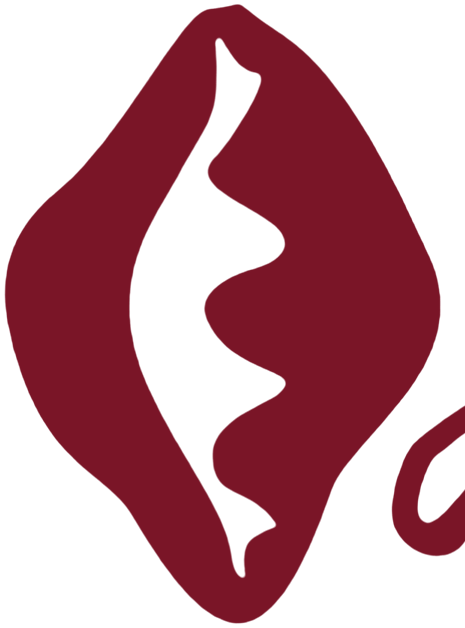
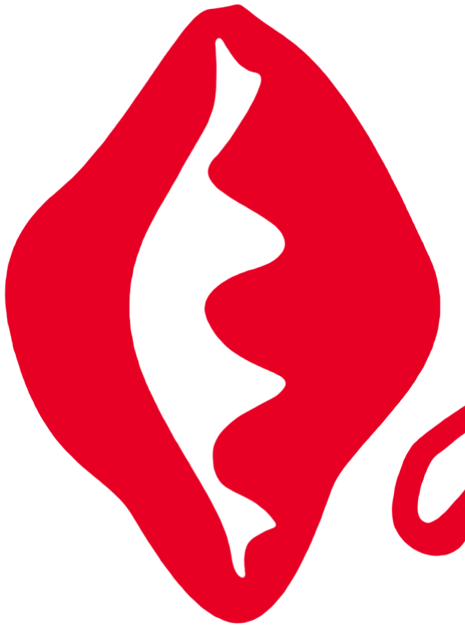
La dame aux perles : rouge vif et blanc pur à la place du bordeaux et du crème
Claude-Session: https://claude.ai/code/session_01TKxGnCmsb49PvZA5i174My

diff --git a/concepts/lyzma/style.css b/concepts/lyzma/style.css
@@ -1,8 +1,8 @@
-/* LA DAME AUX PERLES (Lyzma) — natural hair, by appointment (Edmundston). Her flyer's palette: bordeaux and gold on
-   cream paper (the colours of her logo), cocoa ink; her logo in bordeaux; a grotesque with character for the titles. */
-:root { --bg: #fcf3ea; --ink: #3a1c16; --muted: #7a605a; --line: rgba(58, 28, 22, .16); --soft: #fff8ef; --gold: #e8a21c; --gold-2: #f4c04c; --orange: #7a1628; --brick: #7a1628;
-  --rasp: #7a1628; --rasp-deep: #4e0d19; --blush: #f6e6e2;
-  --accent: #7a1628; --on-accent: #fff8ef; --title: 'Bricolage Grotesque', 'Arial Narrow', sans-serif; --script: 'Caveat', 'Bradley Hand', cursive; --body: 'Manrope', system-ui, sans-serif;
+/* LA DAME AUX PERLES (Lyzma) — natural hair, by appointment (Edmundston). Her flyer's palette: a pop red and bright gold on pure
+   white (she wants bright, happy colours); her logo in red, or in white on the red; a grotesque with character for the titles. */
+:root { --bg: #ffffff; --ink: #141414; --muted: #555555; --line: rgba(20, 20, 20, .14); --soft: #ffffff; --gold: #ffb400; --gold-2: #ffc83d; --orange: #e60023; --brick: #e60023;
+  --rasp: #e60023; --rasp-deep: #c4001d; --blush: #fff0f2;
+  --accent: #e60023; --on-accent: #ffffff; --title: 'Bricolage Grotesque', 'Arial Narrow', sans-serif; --script: 'Caveat', 'Bradley Hand', cursive; --body: 'Manrope', system-ui, sans-serif;
   --pill: 999px; --r: 22px; --max: 1140px; --pad: clamp(18px, 4vw, 44px); }
 
 *, *::before, *::after { box-sizing: border-box; }
@@ -31,7 +31,7 @@ button { font: inherit; }
 .jb-off .btn { margin-top: 6px; }
 
 body { font-size: 15.5px; }
-.concept { background: var(--ink); color: #fff8ef; font-family: var(--body); }
+.concept { background: var(--ink); color: #ffffff; font-family: var(--body); }
 .script { font-family: var(--script); font-weight: 700; font-size: clamp(26px, 3.4vw, 36px); line-height: 1.1; color: var(--rasp); }
 .h1, .h2, .h3 { font-family: var(--title); font-weight: 600; letter-spacing: -.02em; line-height: 1.04; }
 .h1 { font-size: clamp(34px, 5.2vw, 60px); }
@@ -42,7 +42,7 @@ body { font-size: 15.5px; }
 .btn .i { width: 18px; height: 18px; }
 .rings { color: var(--gold); }
 
-.nav { position: sticky; top: 0; z-index: 20; display: flex; align-items: center; justify-content: space-between; gap: 16px; padding: 10px var(--pad); background: rgba(252, 243, 234, .92); -webkit-backdrop-filter: blur(10px); backdrop-filter: blur(10px); border-bottom: 1px solid var(--line); }
+.nav { position: sticky; top: 0; z-index: 20; display: flex; align-items: center; justify-content: space-between; gap: 16px; padding: 10px var(--pad); background: rgba(255, 255, 255, .94); -webkit-backdrop-filter: blur(10px); backdrop-filter: blur(10px); border-bottom: 1px solid var(--line); }
 .logo { display: block; }
 .logo img { display: block; height: 46px; width: auto; }
 .nav__links { display: none; gap: 30px; font-weight: 600; font-size: 14.5px; }
@@ -52,8 +52,9 @@ body { font-size: 15.5px; }
 
 main { overflow-x: clip; }
 .center { text-align: center; }
-.strip { display: flex; justify-content: space-between; gap: 14px; padding: 8px var(--pad); background: var(--rasp); color: #fff8ef; font-family: var(--title); font-weight: 600; font-size: 12px; letter-spacing: .14em; text-transform: uppercase; white-space: nowrap; overflow: hidden; }
-.concept { background: var(--ink); }
+.strip { display: flex; justify-content: space-between; gap: 14px; padding: 8px var(--pad); background: var(--rasp); color: #ffffff; font-family: var(--title); font-weight: 600; font-size: 12px; letter-spacing: .14em; text-transform: uppercase; white-space: nowrap; overflow: hidden; }
+.concept { background: #ffffff; color: var(--ink); border-bottom: 1px solid var(--line); }
+.concept a { color: var(--rasp); }
 
 /* the hero: her logo, in white, alone on a plain bordeaux */
 .hero { padding: 10px 10px 0; display: grid; justify-items: center; text-align: center; }
@@ -78,7 +79,7 @@ main { overflow-x: clip; }
 .spec__img img { width: 100%; height: 100%; object-fit: cover; transition: transform .6s ease; }
 .spec__card:hover .spec__img img { transform: scale(1.04); }
 .spec__pill { margin-top: -19px; position: relative; padding: 8px 18px; border-radius: var(--pill); background: var(--bg); border: 1.5px solid var(--ink); font-family: var(--title); font-weight: 600; font-size: 14px; letter-spacing: .06em; text-transform: uppercase; transition: background-color .2s, color .2s; }
-.spec__card:hover .spec__pill { background: var(--rasp); border-color: var(--rasp); color: #fff8ef; }
+.spec__card:hover .spec__pill { background: var(--rasp); border-color: var(--rasp); color: #ffffff; }
 .spec__sub { margin-top: 8px; font-size: 13px; color: var(--muted); }
 .spec__from { margin-top: 6px; font-family: var(--title); font-weight: 600; font-size: 15px; color: var(--rasp); }
 @media (min-width: 900px) { .spec__grid { grid-template-columns: repeat(4, minmax(0, 1fr)); gap: 16px; } }
@@ -94,7 +95,7 @@ main { overflow-x: clip; }
 .jb-menu__name { font-weight: 700; }
 .jb-menu__price { font-family: var(--title); font-weight: 600; font-size: 18px; }
 .jb-menu__book { border: 1.5px solid var(--ink); font-size: 12.5px; font-weight: 700; transition: background-color .2s, color .2s; }
-.jb-menu__book:hover { background: var(--rasp); border-color: var(--rasp); color: #fff8ef; }
+.jb-menu__book:hover { background: var(--rasp); border-color: var(--rasp); color: #ffffff; }
 
 .duo { display: grid; gap: 34px; }
 .duo__col { display: grid; gap: 16px; align-content: start; }
@@ -111,19 +112,19 @@ main { overflow-x: clip; }
 .pol__item { display: grid; gap: 4px; align-content: start; }
 .pol__item h3 { font-family: var(--title); font-weight: 600; font-size: 14px; letter-spacing: .1em; text-transform: uppercase; }
 .pol__item p { color: var(--muted); font-size: 14.5px; }
-.pol__prep { margin-top: 26px; max-width: 860px; width: 100%; justify-self: center; padding: 14px 18px; border-radius: 14px; background: #fdeccf; font-size: 14px; }
+.pol__prep { margin-top: 26px; max-width: 860px; width: 100%; justify-self: center; padding: 14px 18px; border-radius: 14px; background: #fff4d1; font-size: 14px; }
 @media (min-width: 700px) { .pol__grid { grid-template-columns: 1fr 1fr; } }
 
-.cta__in { position: relative; overflow: hidden; display: grid; gap: 22px; justify-items: center; text-align: center; padding: clamp(46px, 8vw, 96px) 22px; border-radius: clamp(22px, 3vw, 34px); background: var(--rasp); color: #fff8ef; }
+.cta__in { position: relative; overflow: hidden; display: grid; gap: 22px; justify-items: center; text-align: center; padding: clamp(46px, 8vw, 96px) 22px; border-radius: clamp(22px, 3vw, 34px); background: var(--rasp); color: #ffffff; }
 .cta__in::before, .cta__in::after { content: ""; position: absolute; width: clamp(180px, 26vw, 340px); aspect-ratio: 1; border-radius: 50%; background: repeating-radial-gradient(circle, var(--gold) 0 10px, transparent 10px 24px); opacity: .9; }
 .cta__in::before { left: -8%; bottom: -46%; }
 .cta__in::after { right: -8%; top: -46%; }
 .cta__title { position: relative; z-index: 1; font-family: var(--title); font-weight: 600; font-size: clamp(30px, 5.4vw, 66px); line-height: 1; letter-spacing: -.02em; text-transform: uppercase; max-width: 14em; text-wrap: balance; }
 .cta__btn { position: relative; z-index: 1; background: var(--gold); border-color: var(--gold); color: var(--ink); }
-.cta__btn:hover { background: #fff8ef; border-color: #fff8ef; color: var(--ink); }
+.cta__btn:hover { background: #ffffff; border-color: #ffffff; color: var(--ink); }
 
 .page .script { margin-bottom: 4px; }
-.foot { margin-top: clamp(70px, 10vw, 130px); padding: 52px var(--pad) 40px; background: var(--rasp-deep); color: #fff8ef; }
+.foot { margin-top: clamp(70px, 10vw, 130px); padding: 52px var(--pad) 40px; background: var(--rasp-deep); color: #ffffff; }
 .foot__in { max-width: var(--max); margin: 0 auto; display: grid; gap: 22px; justify-items: center; text-align: center; }
 .foot__logo img { height: clamp(90px, 12vw, 124px); }
 .foot__soc { display: flex; flex-wrap: wrap; justify-content: center; align-items: center; gap: 6px 20px; font-weight: 700; font-size: 14px; }
@@ -135,10 +136,10 @@ main { overflow-x: clip; }
 .foot__note a { text-decoration: underline; text-underline-offset: 2px; }
 
 /* the booking steps, in Lyzma's look */
-.jb { --jb-accent: #7a1628; --jb-on-accent: #fff8ef; --jb-soft: #f6e6e2; --jb-line: rgba(58, 28, 22, .2); --jb-muted: #7a605a; --jb-radius: 18px; --jb-title: 'Bricolage Grotesque', 'Arial Narrow', sans-serif; }
+.jb { --jb-accent: #e60023; --jb-on-accent: #ffffff; --jb-soft: #fff0f2; --jb-line: rgba(20, 20, 20, .18); --jb-muted: #555555; --jb-radius: 18px; --jb-title: 'Bricolage Grotesque', 'Arial Narrow', sans-serif; }
 .jb-title { font-weight: 600; letter-spacing: -.02em; }
-.jb-option, .jb-recap, .jb-card { background: #fffdf8; }
-.jb-option.is-on, .jb-acc.is-open { background: #f6e6e2; }
+.jb-option, .jb-recap, .jb-card { background: #ffffff; }
+.jb-option.is-on, .jb-acc.is-open { background: #fff0f2; }
 .jb-option__price, .jb-recap__total dd, .jb-acc__facts dd { font-family: var(--title); }
 .jb-time.is-on, .jb-cal__day.is-on { background: var(--rasp); border-color: var(--rasp); color: #fff; }
 .jb-steps__item.is-current .jb-steps__n, .jb-steps__item.is-done .jb-steps__n { background: var(--gold); border-color: var(--gold); color: var(--ink); }

diff --git a/concepts/lyzma/index.html b/concepts/lyzma/index.html
@@ -7,7 +7,7 @@
 <title>La dame aux perles — locks et coiffures sur cheveux naturels à Edmundston</title>
 <meta name="description" content="La dame aux perles (Lyzma) : resserrage de locks, tresses, mèches et faux locks à Edmundston et environs, à domicile ou sur place. Réservez en ligne.">
 <meta name="robots" content="noindex, nofollow">
-<meta name="theme-color" content="#7a1628">
+<meta name="theme-color" content="#e60023">
 <link rel="icon" href="img/marque.webp" type="image/webp">
 <link rel="preconnect" href="https://fonts.googleapis.com">
 <link rel="preconnect" href="https://fonts.gstatic.com" crossorigin>
@@ -94,7 +94,7 @@
 </main>
 <footer class="foot">
   <div class="foot__in">
-    <a class="logo foot__logo" href="./"><img src="img/logo-creme.webp" alt="La dame au perle" width="1431" height="685" loading="lazy" decoding="async"></a>
+    <a class="logo foot__logo" href="./"><img src="img/logo-blanc.webp" alt="La dame au perle" width="1431" height="685" loading="lazy" decoding="async"></a>
     <p class="foot__soc"><a href="https://www.instagram.com/lyzmaaa/" rel="noopener">Instagram</a><a href="https://www.tiktok.com/@lyzmaaa" rel="noopener">TikTok</a><a href="https://www.snapchat.com/add/lyzmaaa" rel="noopener">Snapchat</a><span>@lyzmaaa</span></p>
     <nav class="foot__nav" aria-label="Pied de page">
       <a href="reserver/">Prendre rendez-vous</a>

diff --git a/concepts/lyzma/reserver/index.html b/concepts/lyzma/reserver/index.html
@@ -7,7 +7,7 @@
 <title>Prendre rendez-vous — Lyzma</title>
 <meta name="description" content="Réservez votre prestation chez Lyzma en quelques étapes.">
 <meta name="robots" content="noindex, nofollow">
-<meta name="theme-color" content="#7a1628">
+<meta name="theme-color" content="#e60023">
 <link rel="icon" href="../img/marque.webp" type="image/webp">
 <link rel="preconnect" href="https://fonts.googleapis.com">
 <link rel="preconnect" href="https://fonts.gstatic.com" crossorigin>
@@ -37,7 +37,7 @@
 </main>
 <footer class="foot">
   <div class="foot__in">
-    <a class="logo foot__logo" href="../"><img src="../img/logo-creme.webp" alt="La dame au perle" width="1431" height="685" loading="lazy" decoding="async"></a>
+    <a class="logo foot__logo" href="../"><img src="../img/logo-blanc.webp" alt="La dame au perle" width="1431" height="685" loading="lazy" decoding="async"></a>
     <p class="foot__soc"><a href="https://www.instagram.com/lyzmaaa/" rel="noopener">Instagram</a><a href="https://www.tiktok.com/@lyzmaaa" rel="noopener">TikTok</a><a href="https://www.snapchat.com/add/lyzmaaa" rel="noopener">Snapchat</a><span>@lyzmaaa</span></p>
     <nav class="foot__nav" aria-label="Pied de page">
       <a href="../reserver/">Prendre rendez-vous</a>

diff --git a/concepts/lyzma/rendez-vous/index.html b/concepts/lyzma/rendez-vous/index.html
@@ -7,7 +7,7 @@
 <title>Mon rendez-vous — Lyzma</title>
 <meta name="description" content="Voir, déplacer ou annuler votre rendez-vous chez Lyzma.">
 <meta name="robots" content="noindex, nofollow">
-<meta name="theme-color" content="#7a1628">
+<meta name="theme-color" content="#e60023">
 <link rel="icon" href="../img/marque.webp" type="image/webp">
 <link rel="preconnect" href="https://fonts.googleapis.com">
 <link rel="preconnect" href="https://fonts.gstatic.com" crossorigin>
@@ -38,7 +38,7 @@
 </main>
 <footer class="foot">
   <div class="foot__in">
-    <a class="logo foot__logo" href="../"><img src="../img/logo-creme.webp" alt="La dame au perle" width="1431" height="685" loading="lazy" decoding="async"></a>
+    <a class="logo foot__logo" href="../"><img src="../img/logo-blanc.webp" alt="La dame au perle" width="1431" height="685" loading="lazy" decoding="async"></a>
     <p class="foot__soc"><a href="https://www.instagram.com/lyzmaaa/" rel="noopener">Instagram</a><a href="https://www.tiktok.com/@lyzmaaa" rel="noopener">TikTok</a><a href="https://www.snapchat.com/add/lyzmaaa" rel="noopener">Snapchat</a><span>@lyzmaaa</span></p>
     <nav class="foot__nav" aria-label="Pied de page">
       <a href="../reserver/">Prendre rendez-vous</a>

diff --git a/concepts/lyzma/mentions-legales/index.html b/concepts/lyzma/mentions-legales/index.html
@@ -7,7 +7,7 @@
 <title>Mentions légales — Lyzma</title>
 <meta name="description" content="Mentions légales et crédits photo du site Lyzma.">
 <meta name="robots" content="noindex, nofollow">
-<meta name="theme-color" content="#7a1628">
+<meta name="theme-color" content="#e60023">
 <link rel="icon" href="../img/marque.webp" type="image/webp">
 <link rel="preconnect" href="https://fonts.googleapis.com">
 <link rel="preconnect" href="https://fonts.gstatic.com" crossorigin>
@@ -53,7 +53,7 @@
 </main>
 <footer class="foot">
   <div class="foot__in">
-    <a class="logo foot__logo" href="../"><img src="../img/logo-creme.webp" alt="La dame au perle" width="1431" height="685" loading="lazy" decoding="async"></a>
+    <a class="logo foot__logo" href="../"><img src="../img/logo-blanc.webp" alt="La dame au perle" width="1431" height="685" loading="lazy" decoding="async"></a>
     <p class="foot__soc"><a href="https://www.instagram.com/lyzmaaa/" rel="noopener">Instagram</a><a href="https://www.tiktok.com/@lyzmaaa" rel="noopener">TikTok</a><a href="https://www.snapchat.com/add/lyzmaaa" rel="noopener">Snapchat</a><span>@lyzmaaa</span></p>
     <nav class="foot__nav" aria-label="Pied de page">
       <a href="../reserver/">Prendre rendez-vous</a>

diff --git a/concepts/lyzma/README.md b/concepts/lyzma/README.md
@@ -6,7 +6,7 @@ Construit sur le modèle de réservation de Jehre : `connect/jeere-booking.js` a
 - `index.html` l'accueil · `reserver/` la prise de rendez-vous · `rendez-vous/` gérer un rendez-vous · `mentions-legales/`
 - Prestations, durées, prix (en dollars canadiens), horaires, acompte et conditions : dans Jehre › Rendez-vous,
   boutique « lyzma ». Le site les lit en direct ; le HTML n'en garde qu'une copie de secours.
-- `img/` : son logo « la dame au perle » (bordeaux, et crème pour le pied de page), son portrait et des photos Unsplash (licence libre,
+- `img/` : son logo « la dame au perle » (rouge, et blanc sur le rouge), son portrait et des photos Unsplash (licence libre,
   crédits dans `img/credits.json` et sur la page des mentions), à remplacer par les photos de ses coiffures.
 
 Aperçu : prestations, prix et photos sont une première proposition, à valider avec elle.
